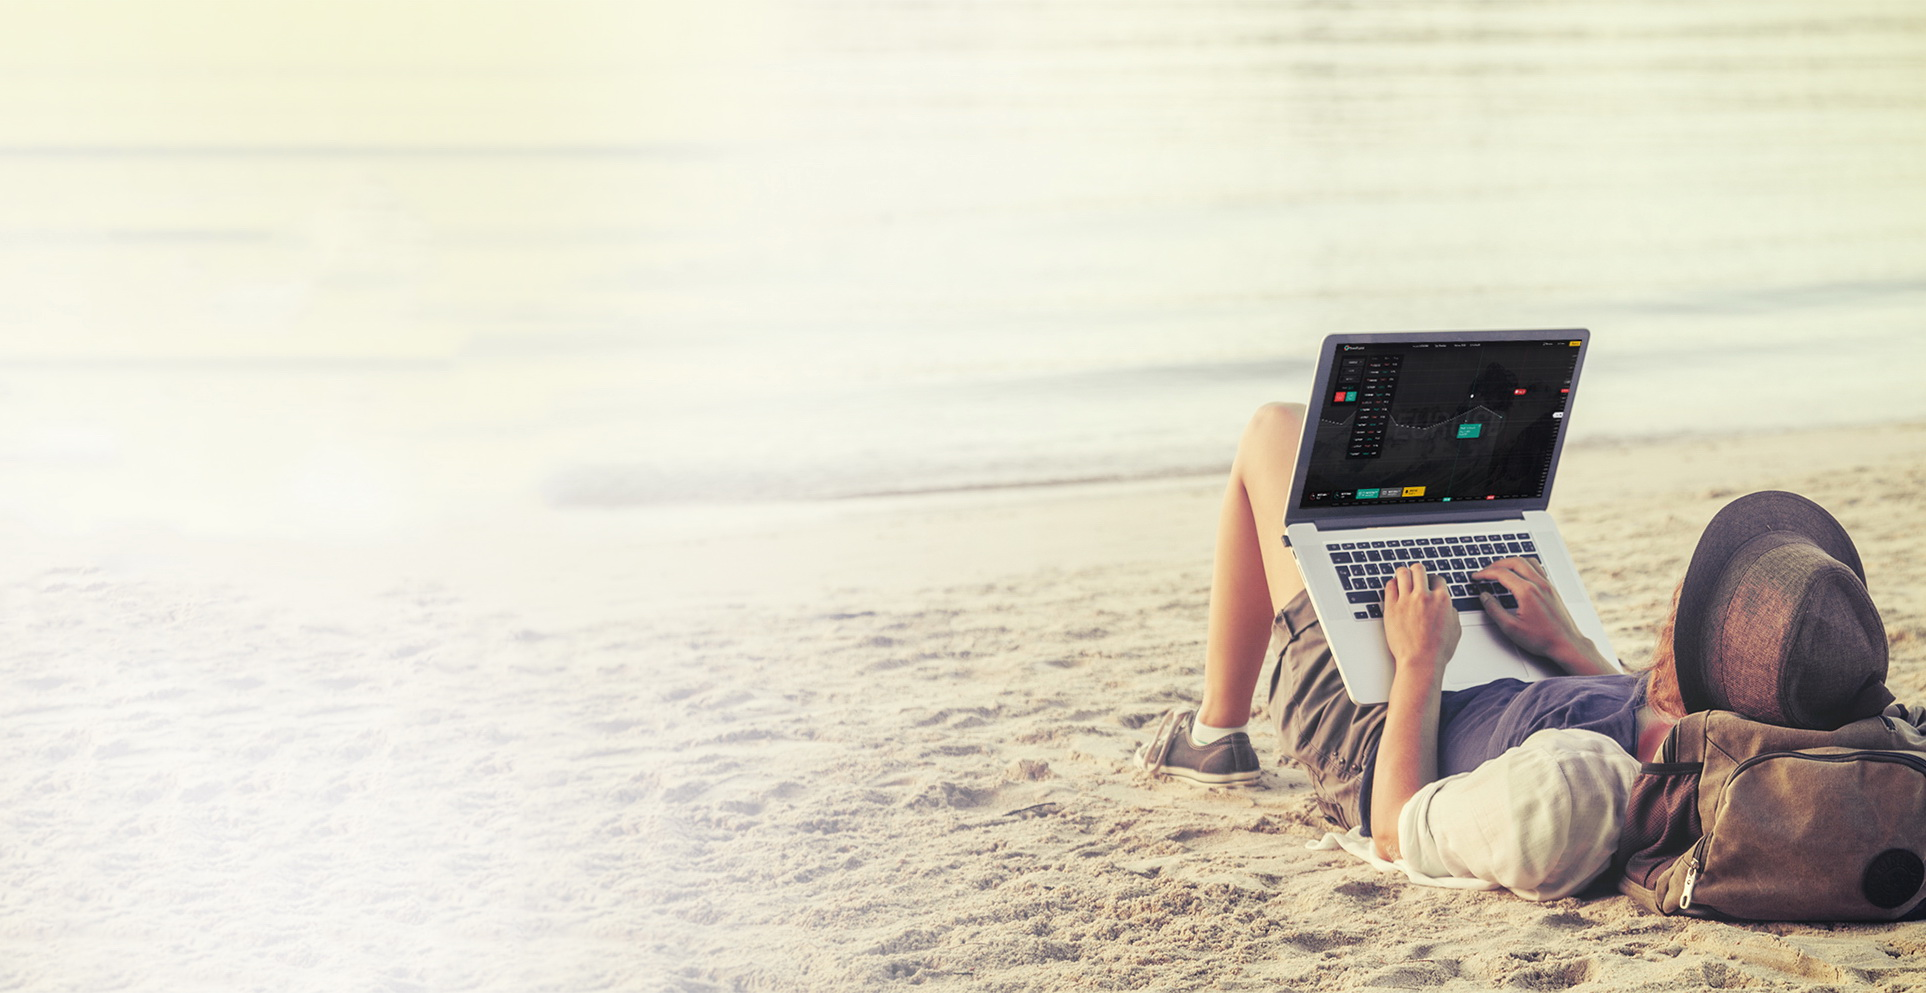
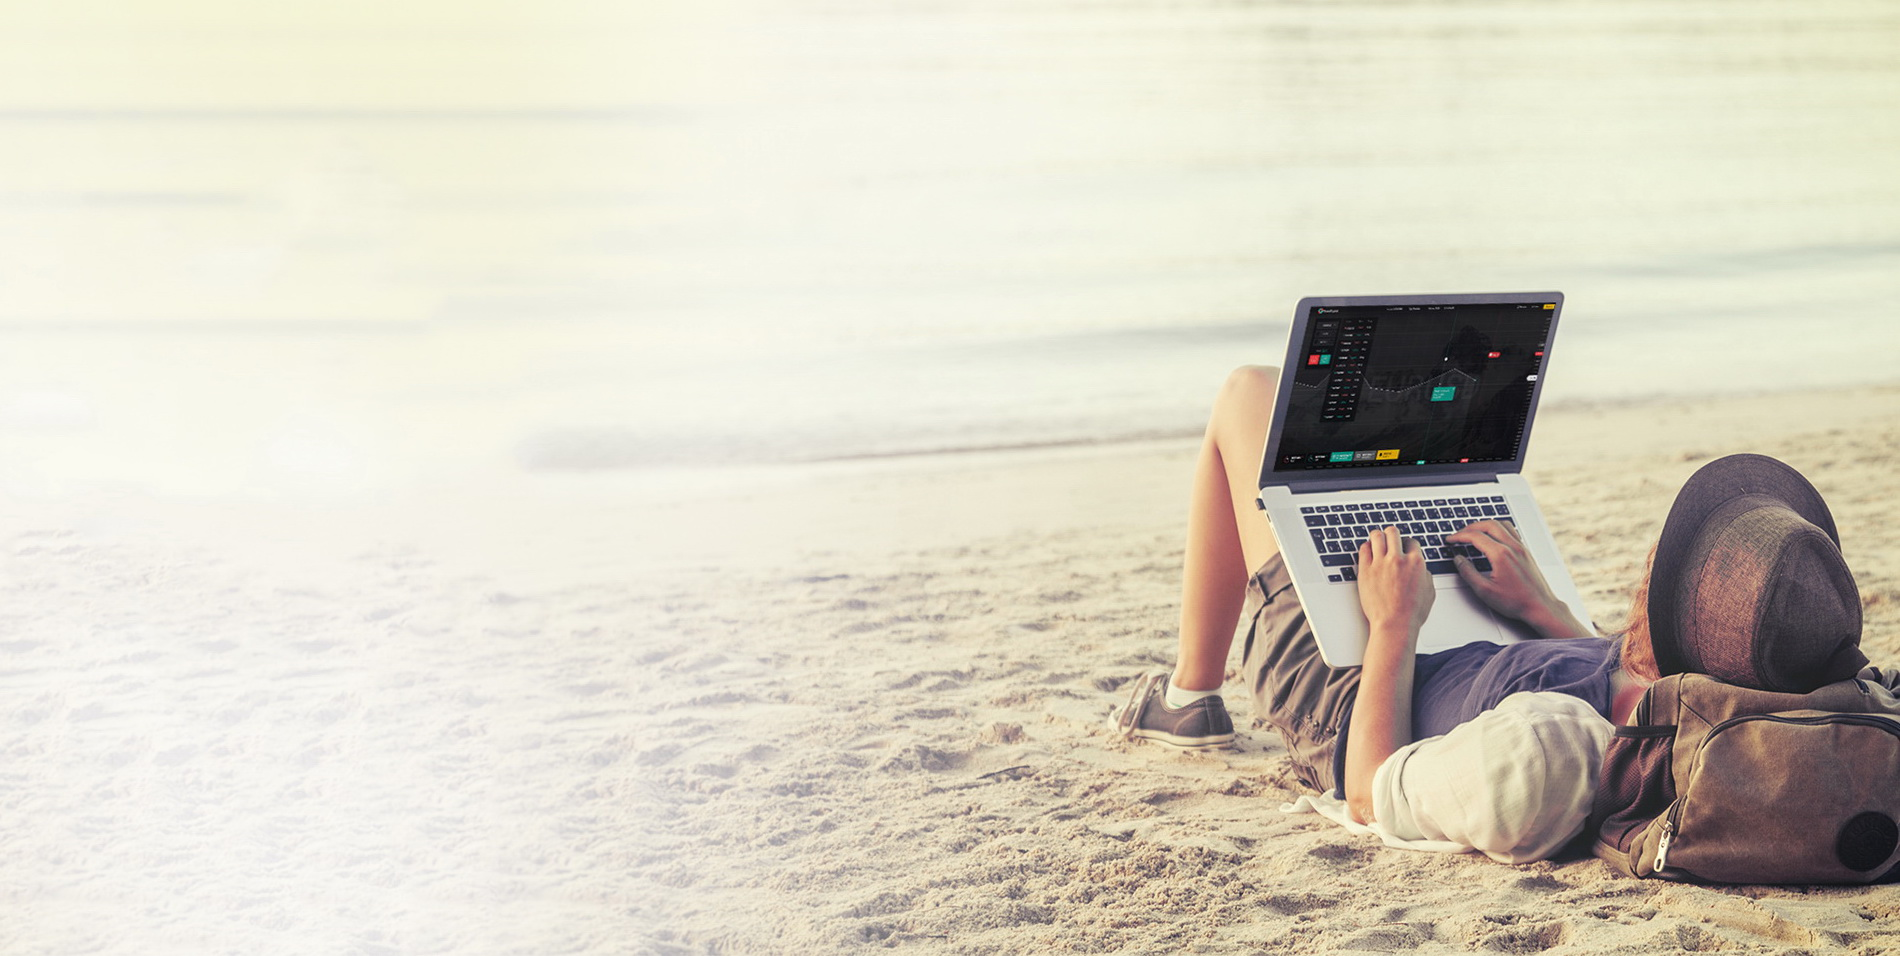
show tabs

Changed region(s): [[0.3416, 0.3033, 1.0, 1.0], [0.9626, 0.2427, 1.0, 0.3033], [0.9626, 0.3944, 1.0, 0.4247]]

diff --git a/src/index.html b/src/index.html
@@ -8,64 +8,67 @@
 <body>
 
 <section class="interest">
-    <h1 class="interest__heading">Выберите способ заработка</h1>
-    <div class="interest__options-mob">
-        <div class="interest__btn">
-            <span class="interest__img-mob_trade"></span>
-            <span class="interest__opt-heading">Самостоятельно торговать</span>
-            <span class="interest__arrow"></span>
+    <div class="interest__slide-up">
+        <h1 class="interest__heading">Выберите способ заработка</h1>
+        <div class="interest__options-mob">
+            <div class="interest__btn">
+                <span class="interest__img-mob_trade"></span>
+                <span class="interest__opt-heading">Самостоятельно торговать</span>
+                <span class="interest__arrow"></span>
+            </div>
+            <div class="interest__desc">
+                <p class="interest__text_sum">Если вы&nbsp;ищете пассивный доход и&nbsp;предпочитаете, чтобы деньги для вас
+                    зарабатывал тот, кто умеет это делать, тогда попробуйте ЛАММ. ЛАММ&nbsp;&mdash; это сервис копирования сделок
+                    успешных трейдеров. Доходность ни&nbsp;чем не&nbsp;ограничена!</p>
+                <h2 class="interest__text_heading">Как это работает</h2>
+                <ol class="ol-list">
+                    <li class="ol-list__item">Вы&nbsp;выбираете&nbsp;управляющего&nbsp;из&nbsp;рейтинга по&nbsp;фильтру&nbsp;Options</li>
+                    <li class="ol-list__item">Подключаете свой счет к счету Управляющего</li>
+                    <li class="ol-list__item">На вашем счете начинается копирование сделок</li>
+                    <li class="ol-list__item">Обратите внимание, что вы не перечисляете свои деньги Управляющему. Все ваши средства остаются на Вашем счете.</li>
+                    <li class="ol-list__item">Вы можете подключиться к нескольким Управляющим одновременно.</li>
+                    <li class="ol-list__item">Вы можете отключиться от Управляющих в любой момент.</li>
+                </ol>
+                <button class="interest__action">Открыть счет</button>
+                <div class="bg-mob-div"></div>
+                <div class="bg-mob"></div>
+            </div>
+            <div class="interest__btn">
+                <span class="interest__img-mob_invest"></span>
+                <span class="interest__opt-heading">Инвестировать</span>
+                <span class="interest__arrow"></span>
+            </div>
+            <div class="interest__desc">
+                <p class="interest__text_sum">Если вы&nbsp;ищете пассивный доход и&nbsp;предпочитаете, чтобы деньги для вас
+                    зарабатывал тот, кто умеет это делать, тогда попробуйте ЛАММ. ЛАММ&nbsp;&mdash; это сервис копирования сделок
+                    успешных трейдеров. Доходность ни&nbsp;чем не&nbsp;ограничена!</p>
+                <button class="interest__action">Открыть счет</button>
+            </div>
+            <div class="interest__btn">
+                <span class="interest__img-mob_pamm"></span>
+                <span class="interest__opt-heading">Привлекать инвесторов</span>
+                <span class="interest__arrow"></span>
+            </div>
+            <div class="interest__desc">
+                <p class="interest__text_sum">Если вы&nbsp;ищете пассивный доход и&nbsp;предпочитаете, чтобы деньги для вас
+                    зарабатывал тот, кто умеет это делать, тогда попробуйте ЛАММ. ЛАММ&nbsp;&mdash; это сервис копирования сделок
+                    успешных трейдеров. Доходность ни&nbsp;чем не&nbsp;ограничена!</p>
+                <button class="interest__action">Открыть счет</button>
+            </div>
         </div>
-        <div class="interest__desc">
-            <p class="interest__text_sum">Если вы&nbsp;ищете пассивный доход и&nbsp;предпочитаете, чтобы деньги для вас
-                зарабатывал тот, кто умеет это делать, тогда попробуйте ЛАММ. ЛАММ&nbsp;&mdash; это сервис копирования сделок
-                успешных трейдеров. Доходность ни&nbsp;чем не&nbsp;ограничена!</p>
-            <h2 class="interest__text_heading">Как это работает</h2>
-            <ol class="ol-list">
-                <li class="ol-list__item">Вы&nbsp;выбираете&nbsp;управляющего&nbsp;из&nbsp;рейтинга по&nbsp;фильтру&nbsp;Options</li>
-                <li class="ol-list__item">Подключаете свой счет к счету Управляющего</li>
-                <li class="ol-list__item">На вашем счете начинается копирование сделок</li>
-                <li class="ol-list__item">Обратите внимание, что вы не перечисляете свои деньги Управляющему. Все ваши средства остаются на Вашем счете.</li>
-                <li class="ol-list__item">Вы можете подключиться к нескольким Управляющим одновременно.</li>
-                <li class="ol-list__item">Вы можете отключиться от Управляющих в любой момент.</li>
-            </ol>
-            <button class="interest__action">Открыть счет</button>
-            <div class="bg-mob-div"></div>
-            <div class="bg-mob"></div>
-        </div>
-        <div class="interest__btn">
-            <span class="interest__img-mob_invest"></span>
-            <span class="interest__opt-heading">Инвестировать</span>
-            <span class="interest__arrow"></span>
-        </div>
-        <div class="interest__desc">
-            <p class="interest__text_sum">Если вы&nbsp;ищете пассивный доход и&nbsp;предпочитаете, чтобы деньги для вас
-                зарабатывал тот, кто умеет это делать, тогда попробуйте ЛАММ. ЛАММ&nbsp;&mdash; это сервис копирования сделок
-                успешных трейдеров. Доходность ни&nbsp;чем не&nbsp;ограничена!</p>
-            <button class="interest__action">Открыть счет</button>
-        </div>
-        <div class="interest__btn">
-            <span class="interest__img-mob_pamm"></span>
-            <span class="interest__opt-heading">Привлекать инвесторов</span>
-            <span class="interest__arrow"></span>
-        </div>
-        <div class="interest__desc">
-            <p class="interest__text_sum">Если вы&nbsp;ищете пассивный доход и&nbsp;предпочитаете, чтобы деньги для вас
-                зарабатывал тот, кто умеет это делать, тогда попробуйте ЛАММ. ЛАММ&nbsp;&mdash; это сервис копирования сделок
-                успешных трейдеров. Доходность ни&nbsp;чем не&nbsp;ограничена!</p>
-            <button class="interest__action">Открыть счет</button>
-        </div>
+        <ul class="interest__nav">
+            <li class="interest__nav-item">
+                <a class="interest__nav-link interest__nav-link_trade" href="#trade">Торговать</a>
+            </li>
+            <li class="interest__nav-item">
+                <a class="interest__nav-link interest__nav-link_invest" href="#invest">Инвестировать</a>
+            </li>
+            <li class="interest__nav-item">
+                <a class="interest__nav-link interest__nav-link_pamm" href="#pamm">Привлекать инвесторов</a>
+            </li>
+        </ul>
     </div>
-    <ul class="interest__nav">
-        <li class="interest__nav-item">
-            <a class="interest__nav-link interest__nav-link_trade" href="#trade">Торговать</a>
-        </li>
-        <li class="interest__nav-item">
-            <a class="interest__nav-link interest__nav-link_invest" href="#invest">Инвестировать</a>
-        </li>
-        <li class="interest__nav-item">
-            <a class="interest__nav-link interest__nav-link_pamm" href="#pamm">Привлекать инвесторов</a>
-        </li>
-    </ul>
+
     <div class="interest__tabs">
         <ul class="interest__tabs-list">
             <li id="trade" class="interest__tabs-li active">Торговать</li>

diff --git a/src/css/main.scss b/src/css/main.scss
@@ -10,6 +10,10 @@ body {
   min-width: 300px;
 }
 
+html, body {
+  height: 100vh;
+}
+
 .interest {
   &__heading {
     font-family: PFDinTextPro-Light, sans-serif;
@@ -157,9 +161,16 @@ body {
 @media (min-width: 540px) {
   body {
     background: url("../img/bg.jpg") no-repeat;
-    background-size: 100%;
+    background-size: cover;
   }
   .interest {
+    &__slide-up {
+      position: absolute;
+      left: 50%;
+      top: 0;
+      transform: translate(-50%);
+      width: 100%;
+    }
     &__options-mob {
       display: none;
     }
@@ -204,22 +215,23 @@ body {
       }
     }
     &__tabs {
-      display: block;
-      margin-top: 5%;
+      display: none;
+      padding-top: 5%;
       background: url("../img/photo-bg.jpg") no-repeat;
       background-size: cover;
+      height: 100vh;
     }
     &__tabs-list {
       display: flex;
-      justify-content: space-between;
-      padding: 4% 6% 0;
+      text-align: center;
     }
     &__tabs-li {
       list-style-type: none;
       font-family: PFDinTextPro-Light, sans-serif;
       font-size: 18px;
       color: rgba(46, 46, 46, 0.8);
-      padding: 0 3% 4%;
+      padding-bottom: 4%;
+      width: 170px;
       margin-bottom: -2px;
     }
     &__tabs-li.active {
@@ -271,8 +283,12 @@ body {
         background: url("../img/pamm.png") no-repeat top 25px center;
       }
     }
-    &__tabs {
-      margin-top: 4%;
+    &__tabs-list {
+      justify-content: space-evenly;
+    }
+    &__tabs-li {
+      margin: 0 15px -2px;
+      width: 180px;
     }
   }
 }
@@ -300,6 +316,13 @@ body {
         background-position: top 77px center;
       }
     }
+    &__tabs {
+      padding-top: 3%;
+    }
+    &__tabs-li {
+      width: 365px;
+      padding-bottom: 41px;
+    }
   }
 }
 
@@ -313,9 +336,7 @@ body {
       margin-right: 13px;
     }
     &__tabs {
-      margin-top: 11%;
-      padding-bottom: 66px;
-      background-position: -3px -23px;
+      padding-top: 0;
     }
     &__tabs-sum {
       line-height: 24px;
@@ -326,11 +347,10 @@ body {
       padding-top: 40px;
     }
     &__tabs-list {
-      padding: 41px 350px 0;
+      padding: 34px 350px 0;
     }
     &__tabs-li {
       font-size: 28px;
-      padding: 0 104px 41px;
     }
     &__tabs-content.active {
       padding: 81px 45% 20px 350px;
@@ -356,8 +376,8 @@ body {
     &__video-link {
       text-decoration: none;
       position: absolute;
-      top: 228px;
-      right: 425px;
+      top: 45%;
+      right: 13%;
       height: 99px;
       width: 99px;
       background: rgba(177, 177, 177, 0.2);

diff --git a/src/js/show-tabs.js b/src/js/show-tabs.js
@@ -1,0 +1,9 @@
+$(function () {
+    $('.interest__nav-link').on('click', (e) => {
+        $('.interest__slide-up').animate({top: '-52%'}, 800, function(){
+            $('.interest__slide-up').fadeOut(800);
+            $('.interest__tabs').fadeIn(800);
+        });
+    });
+});
+

diff --git a/src/index.js b/src/index.js
@@ -4,4 +4,5 @@ import './css/fonts.scss';
 import $ from "jquery";
 import './js/mobile-exp-btn';
 import './js/tabs';
+import './js/show-tabs';
 
